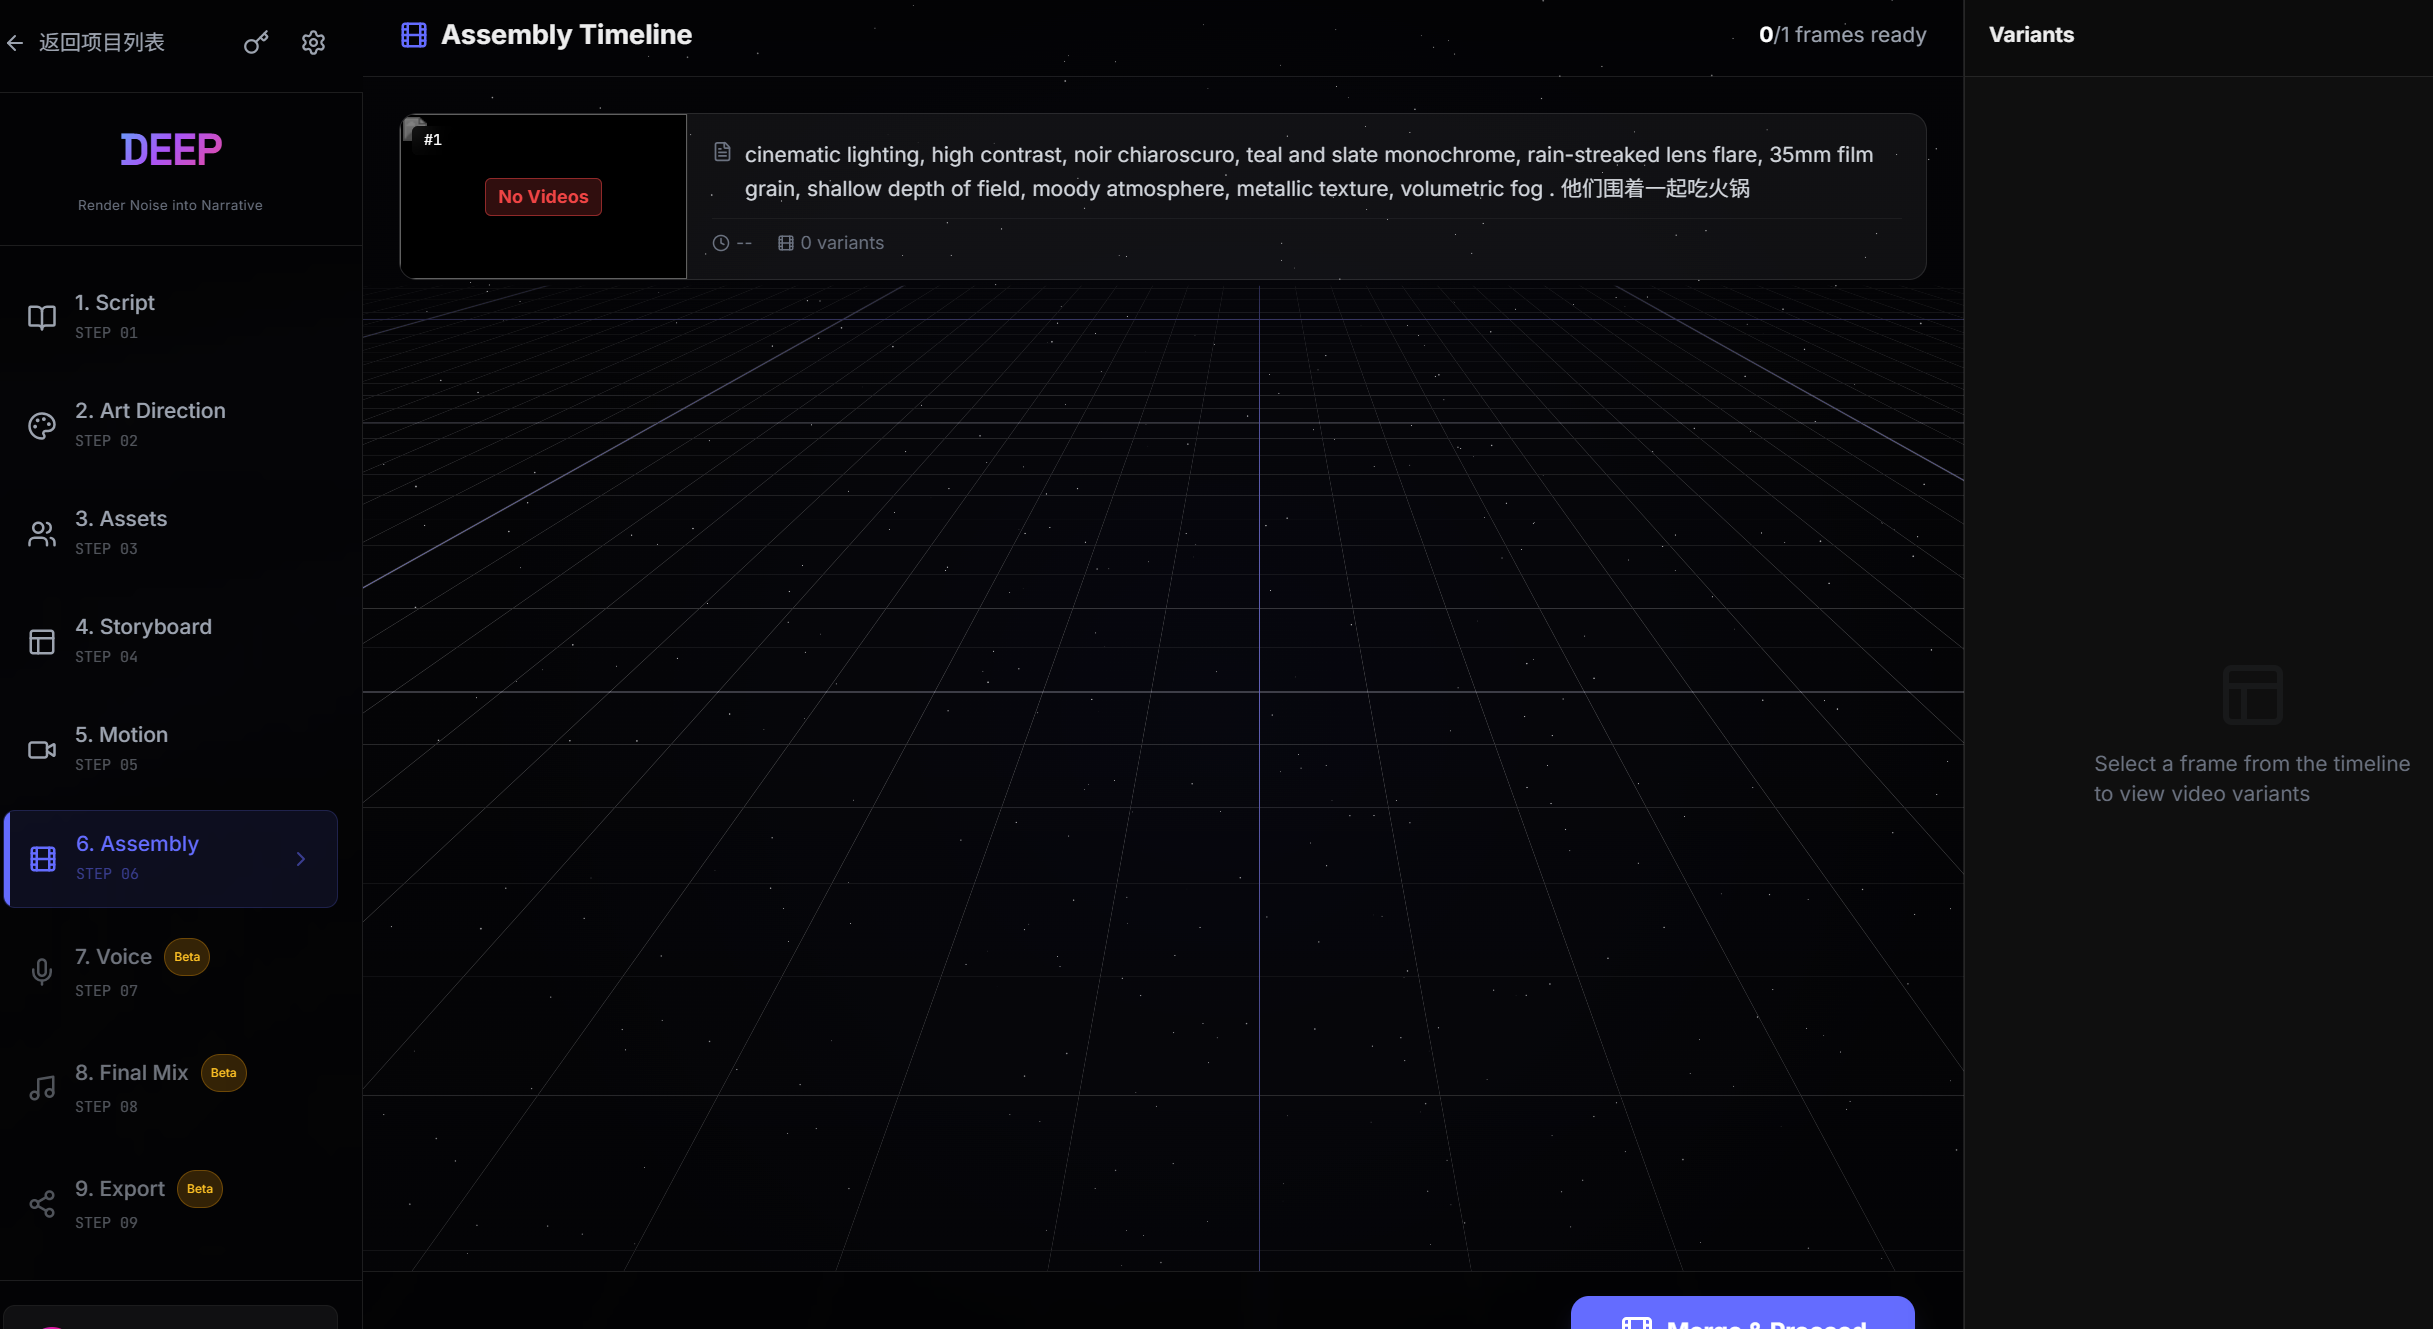
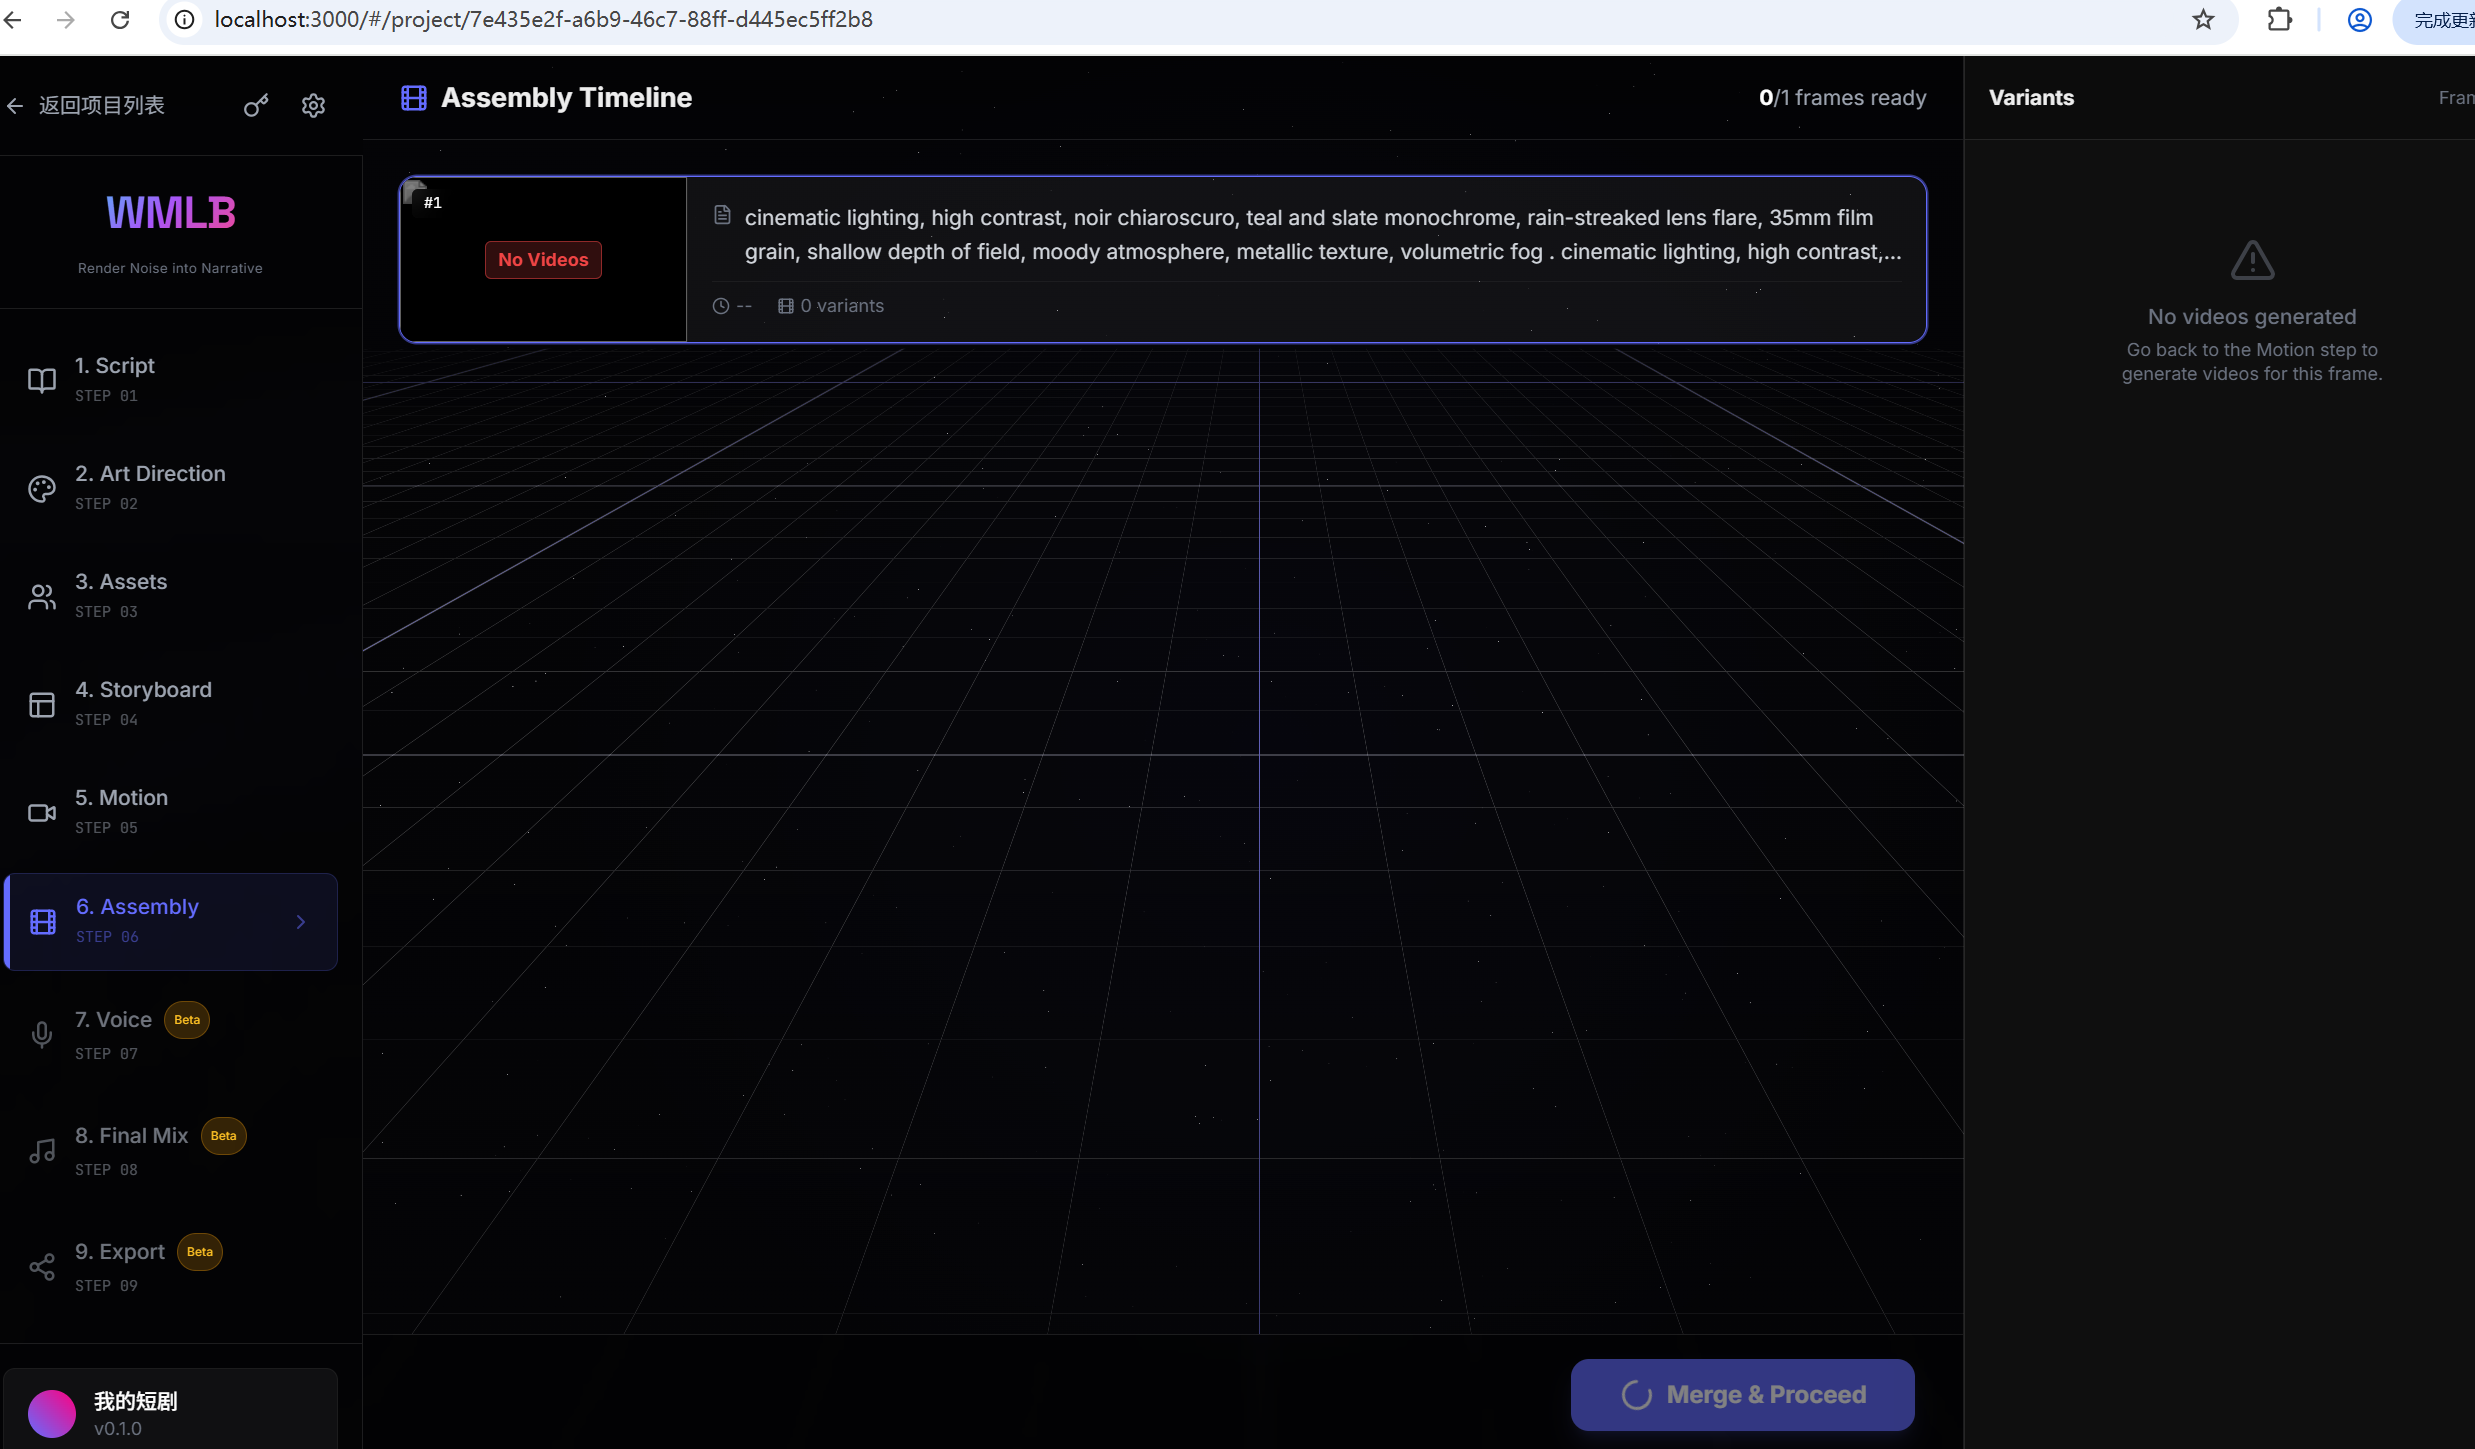
初始化项目

diff --git a/frontend/src/components/layout/PipelineSidebar.tsx b/frontend/src/components/layout/PipelineSidebar.tsx
@@ -45,7 +45,7 @@ export default function PipelineSidebar({ activeStep, onStepChange, steps }: Pip
                             backgroundClip: 'text',
                         }}
                     >
-                        DEEP
+                        WMLB
                     </span>
                 </div>
 
@@ -110,7 +110,7 @@ export default function PipelineSidebar({ activeStep, onStepChange, steps }: Pip
                 <div className="flex items-center gap-3 px-4 py-3 rounded-lg bg-white/5 border border-white/5">
                     <div className="w-8 h-8 rounded-full bg-gradient-to-tr from-primary to-accent" />
                     <div className="flex flex-col">
-                        <span className="text-sm font-medium text-white">Project Alpha</span>
+                        <span className="text-sm font-medium text-white">我的短剧</span>
                         <span className="text-xs text-gray-500">v0.1.0</span>
                     </div>
                 </div>

diff --git a/frontend/src/app/page.tsx b/frontend/src/app/page.tsx
@@ -95,7 +95,7 @@ export default function Home() {
                   backgroundClip: 'text',
                 }}
               >
-                DEEP
+                WMLB
               </span>
               <button
                 onClick={() => setIsEnvDialogOpen(true)}

diff --git a/docs/README.md b/docs/README.md
@@ -2,84 +2,68 @@
 
 ## 1. 项目背景与目标
 
-本项目旨在解决短漫剧创作过程中的技术瓶颈和效率问题。随着AI技术的快速发展，短视频和动漫内容创作需求激增，但传统创作流程存在以下痛点：
-- 剧本分析依赖人工经验，缺乏深度语义理解
-- 美术指导难以量化控制，风格一致性差
-- 分镜设计耗时耗力，可视化程度低
-- 多模态内容生成缺乏统一平台
+随着大数据时代的到来，企业面临数据量爆炸式增长、数据孤岛现象严重、数据开发效率低下等问题。传统的数据开发模式依赖大量手工编码和复杂配置，难以满足快速迭代和敏捷开发的需求。本项目旨在构建一个湖仓一体、存算分离、存储和计算配置化管理于一体的数据开发平台，通过低代码开发的特性，简化数据应用的构建过程，提升数据开发效率和质量。
 
-项目目标是构建一个AI驱动的短漫剧一站式生产平台，通过集成多种AI模型和工具，实现从剧本输入到最终内容输出的全流程自动化和智能化，提升创作效率和质量。
+项目目标是解决数据开发中的核心痛点，包括数据集成困难、存储计算耦合、开发周期长等问题，实现数据从采集到消费的全流程自动化和智能化管理。
 
 ## 2. 项目应用场景
 
 系统适用于以下实际应用场景：
 
-- **深度剧本分析**：对剧本文本进行语义分析、情感识别、角色关系提取，为后续创作提供数据基础
-- **可控美术指导**：基于剧本内容生成美术风格指导，支持风格参数调整和一致性控制
-- **可视化分镜**：自动生成故事板分镜，支持手动调整和预览
-- **多模态生成**：集成文本、图像、音频等多种模态的AI生成能力，输出完整的短漫剧内容
+- **开源透明、伸缩部署**：开源免费，支持高可用和容器化部署，实现快速上线和弹性扩展。
+- **打破数据孤岛**：解决数据跨平台难以被使用的问题，能够轻松集成已有的数据平台，实现了数据的共享和互通。
+- **保护数据隐私**：支持私有化部署，私有云，IDC部署，具备社区最佳实践。
+- **存算配置化管理**：支持存储和计算引擎的自定义配置，满足不同场景的数据开发需求。
+- **多种数据源/计算引擎**：轻松对接各种主流数据库和计算引擎，实现了数据的无缝集成和共享。
+- **多环境模式**：支持多环境开发，开发和生产数据严格分离，保障数据安全。
 
 ## 3. 核心功能概述
 
-- **剧本管理**：支持剧本上传、编辑和版本控制
-- **AI分析引擎**：集成深度学习模型进行剧本语义分析
-- **美术指导生成**：基于剧本自动生成美术风格参数
-- **分镜可视化**：提供交互式分镜设计和预览工具
-- **多模态合成**：支持文本到图像、文本到音频的生成
-- **资产管理**：集成OSS存储，管理生成的内容资产
-- **配置管理**：提供环境变量和API密钥的安全配置界面
+- **数据架构规划**：提供数据模型设计和架构规划工具，支持可视化建模。
+- **数据源管理**：统一管理多种数据源，支持连接配置和元数据采集。
+- **数据集成**：实现数据抽取、转换和加载（ETL）流程的配置化管理。
+- **数据开发**：提供低代码数据处理和分析开发环境，支持SQL编辑和任务编排。
+- **计算引擎**：集成多种计算引擎，支持任务调度和资源管理。
+- **存储应用**：管理数据存储层，支持湖仓一体架构的数据存储和访问。
+- **调度任务**：提供任务调度和监控功能，支持定时和事件触发。
+- **运维发布**：支持应用的部署、监控和运维管理，确保系统稳定运行。
 
 ## 4. 主要技术栈
 
-- **编程语言**：Python (后端), TypeScript (前端)
-- **后端框架**：FastAPI
-- **前端框架**：Next.js, React
-- **样式框架**：Tailwind CSS
-- **数据库**：阿里云OSS (对象存储)
-- **AI模型集成**：
-  - DashScope (通义千问系列模型)
-  - Kling (视频生成)
-  - WanX (图像生成)
-  - Qwen-VL (多模态理解)
-- **中间件**：无
-- **部署工具**：PyInstaller (桌面应用打包)
+- **编程语言**：Java (后端), JavaScript (前端)
+- **后端框架**：Spring Boot
+- **前端框架**：React
+- **数据库**：MySQL (元数据存储), ClickHouse/Hive (数据仓库)
+- **中间件**：Kafka (消息队列), Redis (缓存)
+- **算法或AI相关技术**：无
 
 ## 5. 系统界面预览
 
-![系统架构图](docs/images/architecture.svg)
-
-![首页](docs/project-images/首页.png)
-
-![剧本分析页面](docs/project-images/1（Script）.png)
-
-![美术指导页面](docs/project-images/2(Art%20DIrection).png)
-
-![资产管理页面](docs/project-images/3、Assert.png)
-
-![故事板页面](docs/project-images/4(Story).png)
+![首页](docs/images/index.png)
 
 ## 6. 项目使用指南
 
 ### 6.1 环境要求
 
-- **操作系统**：Windows 10+, macOS 10.15+, Linux (Ubuntu 18.04+)
+- **操作系统**：Linux (推荐Ubuntu 18.04+), Windows 10+, macOS 10.15+
 - **运行环境**：
-  - Python 3.8+
-  - Node.js 18+
-  - npm 或 yarn
+  - JDK 8+
+  - Node.js 14+
+  - Docker (可选，用于容器化部署)
 - **依赖组件**：
-  - FFmpeg (已包含在bin目录)
-  - WebView2 (Windows自动安装)
+  - MySQL 5.7+
+  - Redis 5.0+
 
 ### 6.2 启动步骤
 
 ```bash
 # 1. 克隆项目
 git clone <repository-url>
-cd welwitschia-mirabilis
+cd candelabratree
 
 # 2. 安装后端依赖
-pip install -r requirements.txt
+# 使用Maven安装依赖
+mvn clean install
 
 # 3. 安装前端依赖
 cd frontend
@@ -87,57 +71,56 @@ npm install
 cd ..
 
 # 4. 修改配置
-# 编辑环境变量配置文件，设置API密钥和OSS配置
-# 参考 frontend/src/components/project/EnvConfigDialog.tsx 中的配置项
+# 编辑配置文件 application.yml，设置数据库连接、Redis等参数
+# 示例：
+# spring:
+#   datasource:
+#     url: jdbc:mysql://localhost:3306/candelabratree
+#     username: <username>
+#     password: <password>
 
 # 5. 启动后端服务
-./start_backend.sh  # Linux/macOS
-# 或
-.\start_backend.ps1  # Windows
+mvn spring-boot:run
 
 # 6. 启动前端服务
-./start_frontend.sh  # Linux/macOS
-# 或在frontend目录下运行 npm run dev
+cd frontend
+npm run start
 ```
 
 ### 6.3 访问地址
 
 - **前端界面**：http://localhost:3000
-- **后端API**：http://localhost:8000
-- **API文档**：http://localhost:8000/docs (Swagger UI)
+- **后端API**：http://localhost:8080
 
 ### 6.4 默认账号说明
 
-系统暂无内置默认账号。首次使用需通过前端界面配置环境变量，包括：
-- DashScope API Key
-- 阿里云Access Key ID/Secret
-- OSS Bucket配置
+系统默认管理员账号：admin，密码：admin123。
 
-生产环境部署时，请确保使用强密码并定期轮换API密钥。
+生产环境部署时，请修改默认密码并使用强密码策略。
 
 ## 7. 典型使用流程
 
-1. **环境配置**：首次启动时，通过界面配置必要的API密钥和OSS参数
-2. **剧本上传**：在剧本管理页面上传或输入剧本文本
-3. **深度分析**：系统自动进行剧本语义分析，提取角色、情感、场景信息
-4. **美术指导**：基于分析结果生成美术风格参数，支持手动调整
-5. **分镜设计**：自动生成故事板分镜，用户可交互式编辑
-6. **内容生成**：触发多模态生成，包括图像、音频等资产
-7. **资产管理**：生成的內容自动上传到OSS存储，支持下载和复用
-8. **导出成品**：将完整短漫剧内容导出为标准格式
+1. **登录系统**：使用默认或配置的账号登录平台。
+2. **数据源配置**：在数据源管理模块添加和配置数据源连接。
+3. **架构规划**：使用数据架构规划工具设计数据模型。
+4. **数据集成**：配置ETL任务，实现数据抽取和加载。
+5. **数据开发**：在开发环境中编写SQL或配置处理逻辑。
+6. **任务调度**：设置调度规则，执行数据处理任务。
+7. **存储管理**：管理数据存储和访问权限。
+8. **运维监控**：查看任务运行状态和系统性能指标。
 
 ## 8. 演示视频
 
-[演示视频链接]()
+[演示视频链接：请在此处填写视频链接]
 
 ## 9. 下载与安装
 
-项目提供预编译的桌面应用版本，支持一键下载和安装。
+项目提供预编译的安装包，支持一键下载和安装。
 
-[下载最新版本](https://github.com/your-repo/releases/download/v1.0/welwitschia-mirabilis-setup.exe) (Windows)
+[下载最新版本](https://github.com/your-repo/releases/download/v1.0/candelabratree-setup.exe) (Windows)
 
-[下载最新版本](https://github.com/your-repo/releases/download/v1.0/welwitschia-mirabilis.dmg) (macOS)
+[下载最新版本](https://github.com/your-repo/releases/download/v1.0/candelabratree.dmg) (macOS)
 
-[下载最新版本](https://github.com/your-repo/releases/download/v1.0/welwitschia-mirabilis.AppImage) (Linux)
+[下载最新版本](https://github.com/your-repo/releases/download/v1.0/candelabratree.AppImage) (Linux)
 
 *注意：请替换上述链接为实际的发布地址。*
